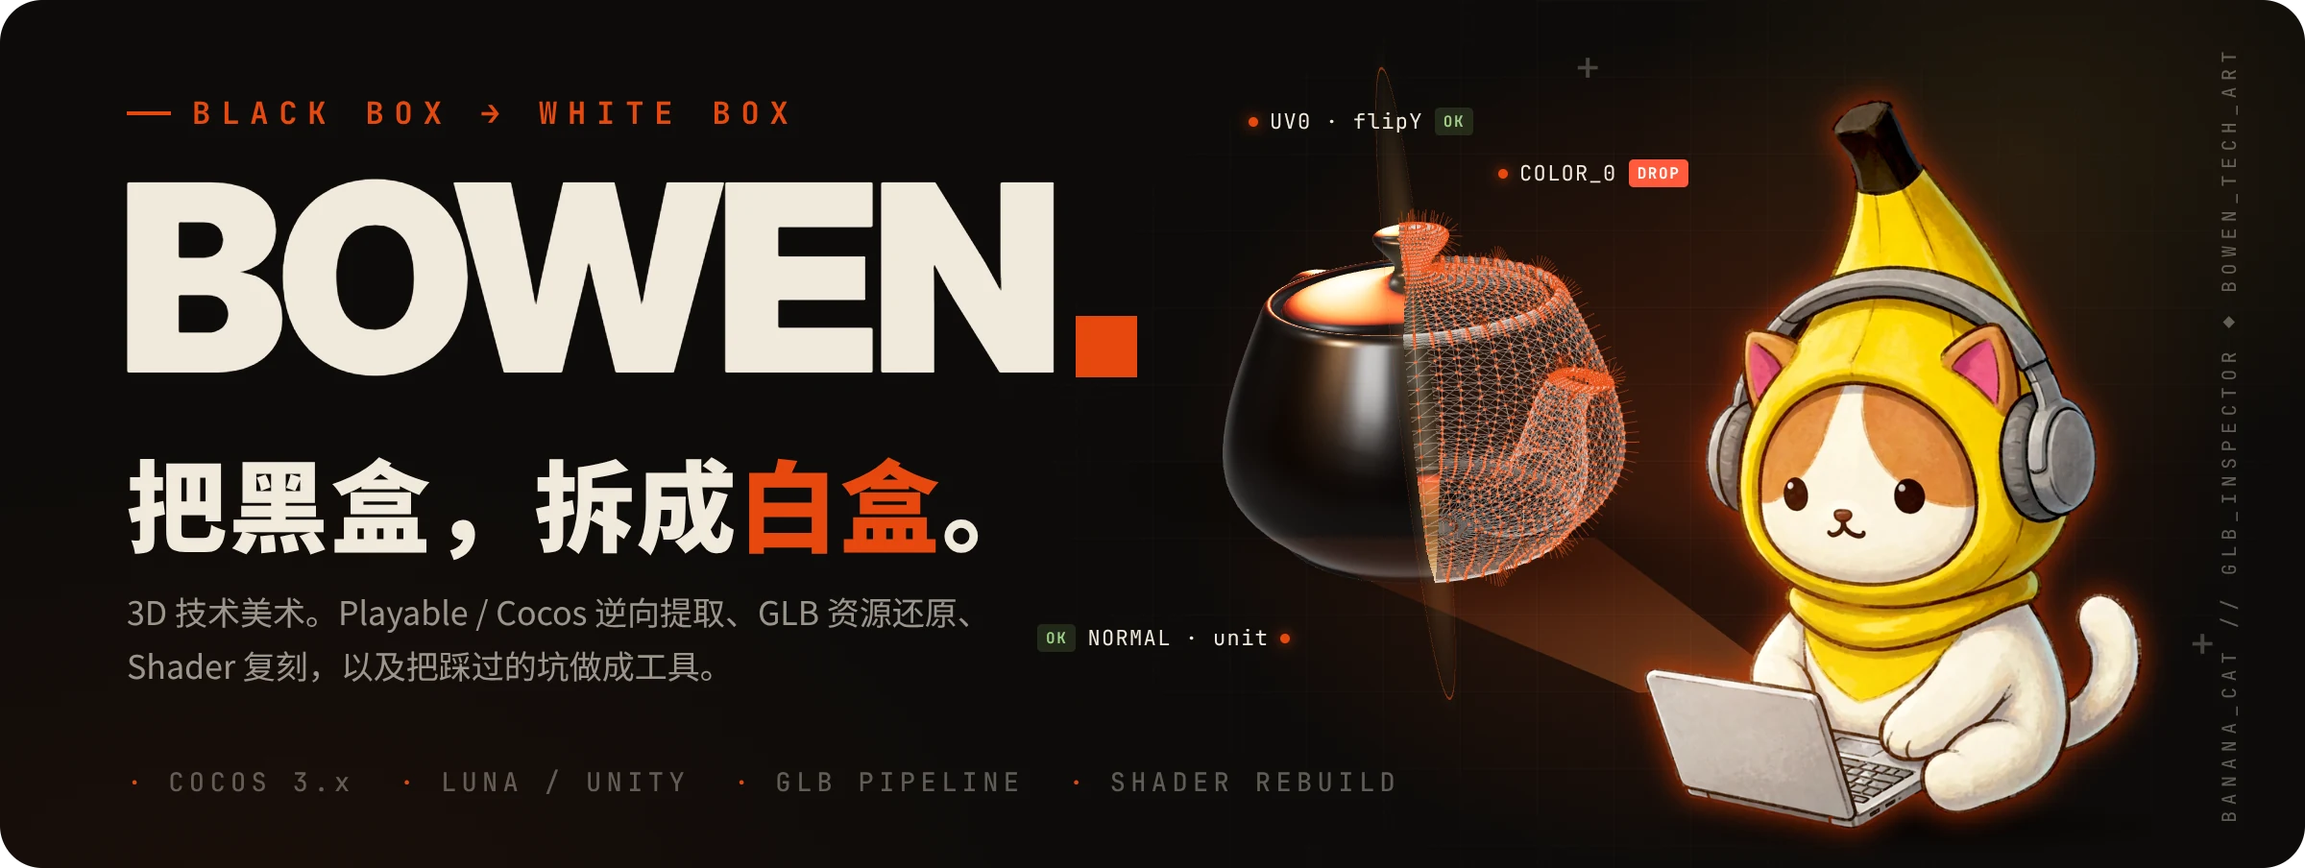
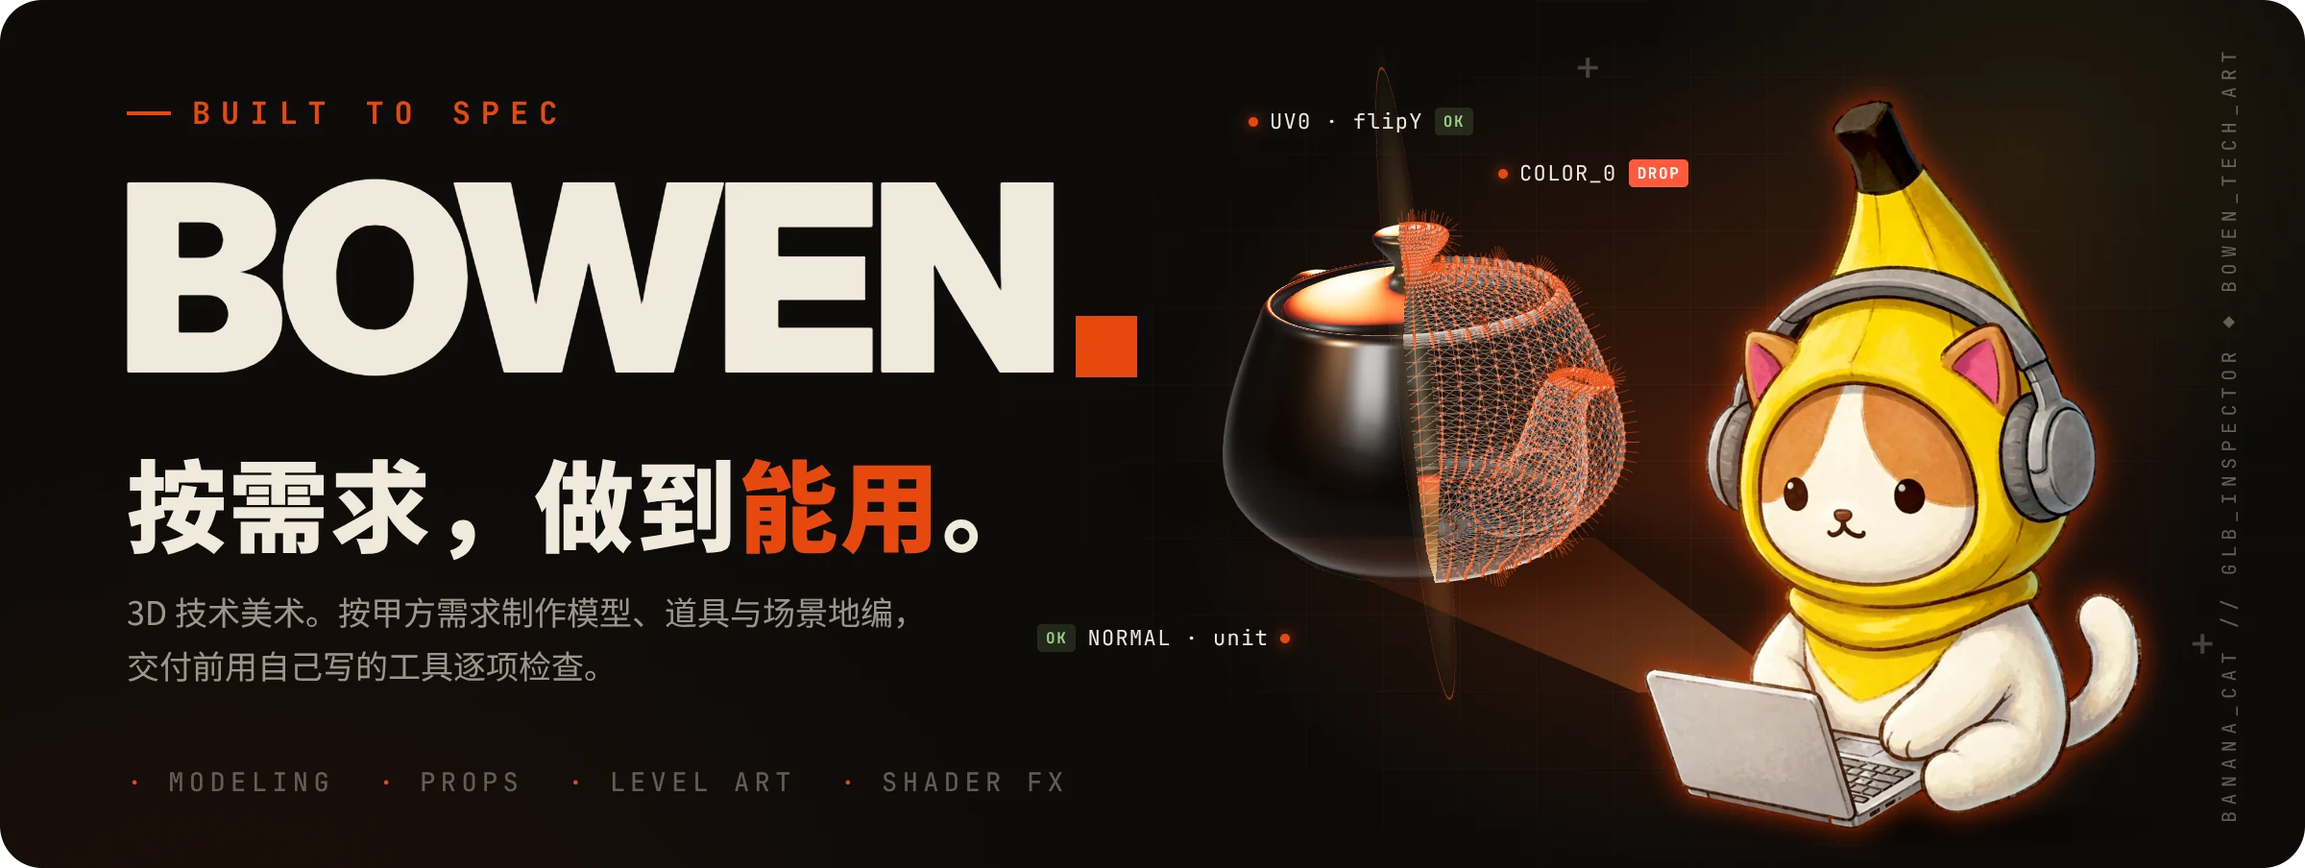
Reposition site around modeling, props and level art
Homepage, README and cover now describe the actual work: building
models, props and level art to client spec, asset cleanup/revision,
Shader effects, and delivery checks. Removed wording about extracting
assets from compiled playable packages (hero, about, skills, workflow
steps, terminal animation, cases, contact, meta/og tags), and dropped
the README link to the extraction notes.

Claude-Session: https://claude.ai/code/session_01NMVYxThqfCwszSwhdHQVfP

diff --git a/index.html b/index.html
@@ -3,13 +3,13 @@
 <head>
 <meta charset="UTF-8">
 <meta name="viewport" content="width=device-width, initial-scale=1.0">
-<title>Bowen · 3D 技术美术 / Playable 逆向 & 资源管线</title>
-<meta name="description" content="Bowen — 3D 游戏技术美术。Cocos Creator 3.x 逆向提取、GLB 资源还原、Shader 复刻与 AI 素材工作流。">
+<title>Bowen · 3D 技术美术 / 模型、道具与场景地编</title>
+<meta name="description" content="Bowen，3D 游戏技术美术。按项目需求制作模型、道具与场景地编，资源整理与改版，Shader 效果与 AI 素材工作流。">
 <link rel="icon" type="image/png" href="assets/favicon.png">
 <link rel="apple-touch-icon" href="assets/apple-touch-icon.png">
 <meta property="og:type" content="website">
-<meta property="og:title" content="Bowen · 把黑盒，拆成白盒">
-<meta property="og:description" content="3D 技术美术。Playable / Cocos 逆向提取、GLB 资源还原、Shader 复刻，以及免费小工具 GLB 体检台。">
+<meta property="og:title" content="Bowen · 3D 技术美术">
+<meta property="og:description" content="按需求制作模型、道具与场景地编，交付能直接进项目的 GLB 资产。另有免费小工具 GLB 体检台。">
 <meta property="og:image" content="https://yigenjiao.github.io/Bowen/assets/cover.jpg">
 <meta name="twitter:card" content="summary_large_image">
 <link rel="preconnect" href="https://fonts.googleapis.com">
@@ -339,8 +339,8 @@ footer{border-top:1px solid var(--line);padding:40px 0;margin-top:0}
     <div class="hero-grid">
       <div>
         <div class="tag"><i></i>3D 技术美术 · 可接活</div>
-        <h1>把别人做好的效果，<br>拆开，再<em>重建</em>一遍。</h1>
-        <p>我是 Bowen。专注 Cocos Creator 3.x 与 Playable 广告的逆向提取、资源还原与 Shader 复刻 —— 从编译后的 HTML 包里，把场景、模型、贴图完整取出来，导出成可二次开发的资源。</p>
+        <h1>模型、道具、地编，<br>按需求做到<em>能用</em>。</h1>
+        <p>我是 Bowen，3D 游戏技术美术。根据甲方需求制作模型、道具和场景地编，也接已有资源的整理、改版和 Shader 效果。交付标准 GLB 和贴图，导进引擎就能用。</p>
         <div class="hero-actions">
           <a href="#cases" class="btn btn-primary">看案例</a>
           <a href="#flow" class="btn btn-ghost">看工作流</a>
@@ -352,7 +352,7 @@ footer{border-top:1px solid var(--line);padding:40px 0;margin-top:0}
         </a>
       </div>
       <div class="term">
-        <div class="term-bar"><span></span><span></span><span></span><em>playable-extract</em></div>
+        <div class="term-bar"><span></span><span></span><span></span><em>asset-delivery</em></div>
         <div class="term-body" id="term"></div>
       </div>
     </div>
@@ -363,28 +363,28 @@ footer{border-top:1px solid var(--line);padding:40px 0;margin-top:0}
   <div class="wrap">
     <div class="reveal">
       <div class="eyebrow">定位</div>
-      <h2>不是「会一点引擎」，而是能把黑盒拆成白盒。</h2>
-      <p class="lede">大多数卡点不在于不会做美术，而在于拿不到可用的资产、复现不出别人的效果。我的价值就在中间这段：把不可用的产物，变成可编辑、可复用、可校验的工程资源。</p>
+      <h2>模型做出来只是一半，能直接放进项目才算交付。</h2>
+      <p class="lede">甲方要的是拿到手就能用的资产。我按需求出模型、道具和地编，同时把命名、贴图绑定、UV 和导出格式一起整理好，少走来回返工。</p>
     </div>
     <div class="compare reveal">
       <div class="cmp">
-        <h3>常规做法</h3>
+        <h3>常见问题</h3>
         <ul>
-          <li>拿到编译后的包，只能截图参考</li>
-          <li>贴图是 WebP 内嵌 base64，取不出来</li>
-          <li>模型没有骨骼、UV 丢失</li>
-          <li>特效只能靠肉眼估，做不出等效效果</li>
-          <li>结论：重做一遍，或者放弃</li>
+          <li>导出后贴图丢失、错位或发黑</li>
+          <li>命名混乱，找不到对应的资源</li>
+          <li>导进引擎比例不对、骨骼散架</li>
+          <li>风格和原项目对不上</li>
+          <li>结论：来回返工，拖慢进度</li>
         </ul>
       </div>
       <div class="cmp on">
         <h3>我的做法</h3>
         <ul>
-          <li>解码 base122 / brotli，解出 assetMap</li>
-          <li>贴图还原为标准图片，命名可读</li>
-          <li>蒙皮与骨骼修复后导出标准 GLB</li>
-          <li>Shader 拆解参数，在引擎内重建等效实现</li>
-          <li>结论：资产可直接进二次开发管线</li>
+          <li>按需求和参考定好风格、面数与贴图规格</li>
+          <li>贴图、材质和命名统一整理</li>
+          <li>导出前逐项检查 UV、法线和蒙皮</li>
+          <li>交付标准 GLB 与贴图集，附节点结构表</li>
+          <li>结论：导入引擎就能用</li>
         </ul>
       </div>
     </div>
@@ -401,21 +401,21 @@ footer{border-top:1px solid var(--line);padding:40px 0;margin-top:0}
     <div class="grid-4 reveal">
       <div class="card">
         <div class="idx">01</div>
-        <h3>逆向提取</h3>
-        <p>从编译后的 Cocos Creator / HTML Playable 包里还原场景节点树、模型、贴图与配置数据。</p>
-        <div class="tags"><b>Cocos 3.x</b><b>Playable</b><b>assetMap</b></div>
+        <h3>模型与道具</h3>
+        <p>按需求制作道具、建筑和场景物件，控制面数与贴图规格，适配目标引擎和平台。</p>
+        <div class="tags"><b>建模</b><b>道具</b><b>低模</b></div>
       </div>
       <div class="card">
         <div class="idx">02</div>
-        <h3>资源还原</h3>
-        <p>贴图绑定、UV 完整性与摆位逐项校验，导出标准 GLB，缺失资产定位并补齐。</p>
-        <div class="tags"><b>GLB</b><b>蒙皮修复</b><b>完整性校验</b></div>
+        <h3>场景地编</h3>
+        <p>按玩法和参考搭建关卡场景，整理摆位、层级与材质，已有场景也可以改版重做。</p>
+        <div class="tags"><b>地编</b><b>关卡场景</b><b>改版</b></div>
       </div>
       <div class="card">
         <div class="idx">03</div>
-        <h3>Shader 复刻</h3>
-        <p>拆解溶解、河流、卡通渲染等效果参数，在引擎内重建等效实现，移植到 Unity 管线。</p>
-        <div class="tags"><b>Shader</b><b>特效</b><b>Unity 移植</b></div>
+        <h3>Shader 效果</h3>
+        <p>按参考实现溶解、河流、卡通渲染等效果，参数可调，可以接进 Unity 管线。</p>
+        <div class="tags"><b>Shader</b><b>特效</b><b>Unity</b></div>
       </div>
       <div class="card">
         <div class="idx">04</div>
@@ -431,7 +431,7 @@ footer{border-top:1px solid var(--line);padding:40px 0;margin-top:0}
   <div class="wrap">
     <div class="reveal">
       <div class="eyebrow">工作流</div>
-      <h2>六步，从黑盒到可用资产</h2>
+      <h2>六步，从需求到可用资产</h2>
       <p class="lede">点左边任意一步，看这一步具体在做什么。</p>
     </div>
     <div class="steps reveal">
@@ -446,19 +446,19 @@ footer{border-top:1px solid var(--line);padding:40px 0;margin-top:0}
     <div class="reveal">
       <div class="eyebrow">案例</div>
       <h2>做过的事</h2>
-      <p class="lede">三类典型任务，从取资产到复刻效果。</p>
+      <p class="lede">几类典型任务，从场景交付到效果实现。</p>
     </div>
     <div class="grid-3 reveal">
       <div class="case">
-        <div class="k">CASE 01 · 全资产提取</div>
-        <h3>从 Playable 广告里还原整场景</h3>
-        <p>针对编译后的 playable 包，解码资源映射、还原内嵌贴图，完整取出场景节点树、模型与材质，交付可供美术验证与二次开发的标准资源。</p>
+        <div class="k">CASE 01 · 整场景交付</div>
+        <h3>一整套场景资产的整理与交付</h3>
+        <p>按项目需求整理整套场景的模型、贴图、材质与节点层级，统一命名和规格，交付可供美术验证、可直接二次开发的标准资源。</p>
         <div class="res">输出：GLB + 贴图集 + 节点结构表</div>
       </div>
       <div class="case">
-        <div class="k">CASE 02 · Shader 复刻</div>
-        <h3>河流溶解与消融特效重建</h3>
-        <p>分析广告级特效中的溶解遮罩、河流流动与边缘消融逻辑，提取参数规律，在引擎内重建等效实现，可用于自有项目复用。</p>
+        <div class="k">CASE 02 · Shader 效果</div>
+        <h3>河流、溶解与消融特效</h3>
+        <p>按参考效果实现溶解遮罩、河流流动与边缘消融，整理成参数可调的 Shader，可以在项目里反复复用。</p>
         <div class="res">输出：可复用 Shader + 参数说明</div>
       </div>
       <div class="case">
@@ -468,9 +468,9 @@ footer{border-top:1px solid var(--line);padding:40px 0;margin-top:0}
         <div class="res">输出：替换资产包 + 出图工作流</div>
       </div>
       <div class="case">
-        <div class="k">CASE 04 · 单文件包实测</div>
-        <h3>从 8MB 单文件网页里导出 3732 个模型</h3>
-      <p>8MB 单文件 playable 网页，3776 个节点，导出 3732 个模型 / 1187 个实例 / 21926 个去重面 / 29 个材质，交付 2.3MB GLB。验收：引擎世界包围盒（AABB）与 Blender 对账一致，多视角渲染目检通过。关键点：base122 内联 + Brotli 压缩；data URL 前缀不剥贴图全废；材质按 pass 取错就没贴图；骨骼用当前姿态烘焙。</p>
+        <div class="k">CASE 04 · 大场景交付</div>
+        <h3>一次交付 3732 个模型的大场景</h3>
+      <p>3776 个节点，3732 个模型、1187 个实例、29 个材质，整体压到 2.3MB 的 GLB。验收时引擎里的世界包围盒和 Blender 逐项对账一致，多视角渲染检查通过。</p>
         <div class="res">输出：GLB + 贴图集 + 节点结构表</div>
       </div>
     </div>
@@ -512,8 +512,8 @@ footer{border-top:1px solid var(--line);padding:40px 0;margin-top:0}
     <div class="contact reveal">
       <div>
         <div class="eyebrow">联系</div>
-        <h2>有包要拆，或者有活要接？</h2>
-        <p>逆向提取、资源还原、Shader 复刻、Playable 资产管线，都可以直接聊。说清楚需求和你手上的产物形态，我先判断能不能做。</p>
+        <h2>有模型、道具或场景要做？</h2>
+        <p>模型、道具、场景地编、资源改版和 Shader 效果，都可以直接聊。说清楚用途、风格参考和交付格式，我先评估工期。</p>
       </div>
       <div class="ways">
         <a class="way" href="https://github.com/yigenjiao" target="_blank" rel="noopener"><span>GITHUB</span><b>github.com/yigenjiao</b></a>
@@ -565,11 +565,11 @@ footer{border-top:1px solid var(--line);padding:40px 0;margin-top:0}
   });
 
   var lines = [
-    {t:'$ extract --src ./ads/bundle.html', c:'c-dim'},
-    {t:'\u2713 解码 base122 / brotli · 完成', c:'c-ok'},
-    {t:'\u2713 assetMap \u5df2\u89e3\u5305 \u00b7 \u5171 1284 \u4e2a\u8d44\u6e90', c:'c-ok'},
-    {t:'\u2713 \u8d34\u56fe WebP \u2192 PNG \u00b7 \u8499\u76ae\u5df2\u4fee\u590d', c:'c-ok'},
-    {t:'\u2713 \u5bfc\u51fa scene.glb \u00b7 42.6 MB', c:'c-ok'},
+    {t:'$ check ./delivery/scene.glb', c:'c-dim'},
+    {t:'✓ 模型、道具、地编 · 已整理', c:'c-ok'},
+    {t:'✓ 贴图绑定 · 命名统一', c:'c-ok'},
+    {t:'✓ UV / 法线 / 蒙皮 · 检查通过', c:'c-ok'},
+    {t:'✓ 导出 scene.glb · 可交付', c:'c-ok'},
     {t:'$ _', c:'c-key'}
   ];
   var box = document.getElementById('term');
@@ -593,12 +593,12 @@ footer{border-top:1px solid var(--line);padding:40px 0;margin-top:0}
   tick();
 
   var STEPS = [
-    {n:'01', name:'抓取包体', desc:'拿到线上投放的 playable 或构建产物，确认引擎版本与资源组织方式，判断解码路径。', code:'$ curl -O bundle.html\n# 识别 Cocos 3.x / 资源内嵌结构'},
-    {n:'02', name:'解码还原', desc:'按资源格式逐层解码：base122、brotli、assetMap，把内嵌数据还原成可读的资源清单。', code:'base122 \u2192 brotli \u2192 assetMap\n# 输出：资源索引表 + 原始二进制'},
-    {n:'03', name:'贴图提取', desc:'把内嵌在代码里的 WebP / base64 贴图整体还原为标准图片文件，并按语义重命名。', code:'webp \u2192 png\n# 保留原有尺寸与压缩信息'},
-    {n:'04', name:'蒙皮修复', desc:'还原骨骼与蒙皮权重，修复常见断裂问题，保证模型可动画、可编辑。', code:'# 骨骼层级对齐\n# 权重归一化修复'},
-    {n:'05', name:'导出交付', desc:'导出标准 GLB 与贴图集，附节点结构表，直接进二次开发管线或 Unity 工程。', code:'$ export --scene scene.glb\n\u2713 42.6 MB \u00b7 1284 \u8d44\u6e90'},
-    {n:'06', name:'对照校验', desc:'拿导出的资产和运行时游戏逐项比对：模型摆位、贴图绑定、UV 完整性，发现缺失立即补全。', code:'\u2713 \u6446\u4f4d\u4e00\u81f4\n\u2713 \u8d34\u56fe\u7ed1\u5b9a\u6b63\u786e\n\u2713 UV \u65e0\u4e22\u5931'}
+    {n:'01', name:'需求确认', desc:'确认用途、风格参考、目标引擎和平台，定好面数与贴图规格，避免做完再返工。', code:'# 风格参考 / 面数 / 贴图规格\n# 目标引擎与平台'},
+    {n:'02', name:'白模搭建', desc:'先出体块和场景布局，确认比例、视角和摆位，甲方确认后再进细化。', code:'# 体块 → 布局 → 确认'},
+    {n:'03', name:'建模与贴图', desc:'细化模型，展 UV，制作贴图与材质，按规格控制面数和贴图尺寸。', code:'# 建模 → UV → 贴图 → 材质'},
+    {n:'04', name:'场景地编', desc:'按玩法和参考摆放模型与道具，整理节点层级、命名和材质复用。', code:'# 摆位 / 层级 / 命名 / 材质复用'},
+    {n:'05', name:'导出交付', desc:'导出标准 GLB 与贴图集，附节点结构表，直接进项目或 Unity 工程。', code:'$ export --scene scene.glb\n✓ GLB + 贴图集 + 节点结构表'},
+    {n:'06', name:'对照校验', desc:'导进目标引擎逐项检查摆位、贴图绑定和 UV，再用 GLB 体检台跑一遍，发现问题当场修。', code:'✓ 摆位一致\n✓ 贴图绑定正确\n✓ UV 无丢失'}
   ];
   var list = document.getElementById('stepList');
   var panel = document.getElementById('stepPanel');

diff --git a/.github/cover/cover.html b/.github/cover/cover.html
@@ -70,12 +70,12 @@ body{font-family:"Noto Sans SC","Inter",sans-serif;color:var(--text);-webkit-fon
   <canvas id="gl"></canvas>
 
   <div class="copy">
-    <div class="kicker">BLACK BOX → WHITE BOX</div>
+    <div class="kicker">BUILT TO SPEC</div>
     <div class="word">BOWEN<span class="dot"></span></div>
-    <div class="tagline">把黑盒，拆成<em>白盒</em>。</div>
-    <div class="sub">3D 技术美术。Playable / Cocos 逆向提取、GLB 资源还原、<br>Shader 复刻，以及把踩过的坑做成工具。</div>
+    <div class="tagline">按需求，做到<em>能用</em>。</div>
+    <div class="sub">3D 技术美术。按甲方需求制作模型、道具与场景地编，<br>交付前用自己写的工具逐项检查。</div>
   </div>
-  <div class="chips"><span>COCOS 3.x</span><span>LUNA / UNITY</span><span>GLB PIPELINE</span><span>SHADER REBUILD</span></div>
+  <div class="chips"><span>MODELING</span><span>PROPS</span><span>LEVEL ART</span><span>SHADER FX</span></div>
 
   <svg width="0" height="0" style="position:absolute"><filter id="rim" x="-10%" y="-10%" width="120%" height="120%">
     <feMorphology in="SourceAlpha" operator="dilate" radius="2" result="d"/>

diff --git a/README.md b/README.md
@@ -1,25 +1,23 @@
 <p align="center">
-  <a href="https://yigenjiao.github.io/Bowen/"><img src="assets/cover.webp" width="100%" alt="BOWEN —— 把黑盒，拆成白盒。香蕉猫抱着电脑，投射出一只半实体、半线框的茶壶在做体检。3D 技术美术：Playable / Cocos 逆向提取、GLB 资源还原、Shader 复刻。"></a>
+  <a href="https://yigenjiao.github.io/Bowen/"><img src="assets/cover.webp" width="100%" alt="BOWEN，按需求做到能用。香蕉猫抱着电脑，投射出一只半实体、半线框的茶壶在做体检。3D 技术美术，模型、道具与场景地编。"></a>
 </p>
 
 <p align="center">
   <strong><a href="https://yigenjiao.github.io/Bowen/">个人主页</a></strong> &nbsp;·&nbsp;
   <strong><a href="https://yigenjiao.github.io/Bowen/tools/glb-inspector/">GLB 体检台</a></strong> &nbsp;·&nbsp;
-  <a href="skills/luna-playable-extract/">提取工作流文档</a> &nbsp;·&nbsp;
   <a href="#联系">联系我</a>
 </p>
 
 <p align="center">
-  <img src="https://img.shields.io/badge/Cocos_Creator-3.x-e6480f?style=flat-square" alt="Cocos Creator 3.x">
-  <img src="https://img.shields.io/badge/Playable-Luna_%2F_Unity-c98a2b?style=flat-square" alt="Luna / Unity Playable">
+  <img src="https://img.shields.io/badge/Blender-建模_%2F_地编-e6480f?style=flat-square" alt="Blender">
+  <img src="https://img.shields.io/badge/Unity-Shader_%2F_交付-c98a2b?style=flat-square" alt="Unity">
   <img src="https://img.shields.io/badge/glTF-2.0-f0e9dc?style=flat-square&labelColor=14110d" alt="glTF 2.0">
 </p>
 
-我是 **Bowen**，3D 游戏技术美术。专门处理编译后的 **Cocos Creator / Luna / Unity 试玩广告（Playable）**：
-从单个 HTML 包里还原场景节点树、模型、贴图和材质，导出可以二次开发的标准 GLB；
-也拆解溶解、河流、卡通渲染这类效果，在引擎里重建等效 Shader。
+我是 **Bowen**，3D 游戏技术美术。根据甲方需求制作**模型、道具和场景地编**，
+也接已有资源的整理、改版，以及溶解、河流、卡通渲染这类 Shader 效果。
 
-**不是「会一点引擎」，而是能把黑盒拆成白盒。**
+交付标准 GLB 和贴图集，附节点结构表，导进引擎就能用。
 
 ## 🧰 GLB 体检台：把踩过的坑做成工具
 
@@ -52,12 +50,12 @@
 
 | | 能力 | 内容 |
 | --- | --- | --- |
-| 01 | **逆向提取** | 从编译后的 Cocos Creator / HTML Playable 包里还原场景节点树、模型、贴图与配置数据 |
-| 02 | **资源还原** | 贴图绑定、UV 完整性与摆位逐项校验，导出标准 GLB，定位并补齐缺失资产 |
-| 03 | **Shader 复刻** | 拆解溶解、河流、卡通渲染等效果参数，在引擎内重建，并移植到 Unity 管线 |
+| 01 | **模型与道具** | 按需求制作道具、建筑和场景物件，控制面数与贴图规格，适配目标引擎和平台 |
+| 02 | **场景地编** | 按玩法和参考搭建关卡场景，整理摆位、层级与材质，已有场景也可以改版重做 |
+| 03 | **Shader 效果** | 按参考实现溶解、河流、卡通渲染等效果，参数可调，可以接进 Unity 管线 |
 | 04 | **AI 工作流** | 概念出图、批量素材生成与自动化脚本，把重复劳动交给流水线 |
 
-做过的案例（全资产提取、Shader 复刻、主题改版，以及从 8MB 单文件网页里导出 3732 个模型）见[个人主页](https://yigenjiao.github.io/Bowen/#cases)。
+做过的案例（整场景交付、Shader 效果、主题改版，以及一次交付 3732 个模型的大场景）见[个人主页](https://yigenjiao.github.io/Bowen/#cases)。
 
 ## 仓库里有什么
 
@@ -65,15 +63,14 @@
 index.html                       个人主页
 tools/glb-inspector/             GLB 体检台（单文件，无需构建）
   samples/                       健康样本 / 故意埋坑的样本 + 生成脚本
-skills/luna-playable-extract/    Playable 资源提取工作流：包型判断、解码、导出标准与踩坑记录
 assets/                          封面、截图、二维码
 .github/cover/                   README 封面的源文件（HTML + three.js），可以重新生成
 ```
 
 ## 联系
 
-逆向提取、资源还原、Shader 复刻、Playable 资产管线，都可以直接聊。
-说清楚需求和你手上的产物形态，我先判断能不能做。
+模型、道具、场景地编、资源改版和 Shader 效果，都可以直接聊。
+说清楚用途、风格参考和交付格式，我先评估工期。
 
 - **Email**：shiboxun123@gmail.com
 - **GitHub**：[@yigenjiao](https://github.com/yigenjiao)
